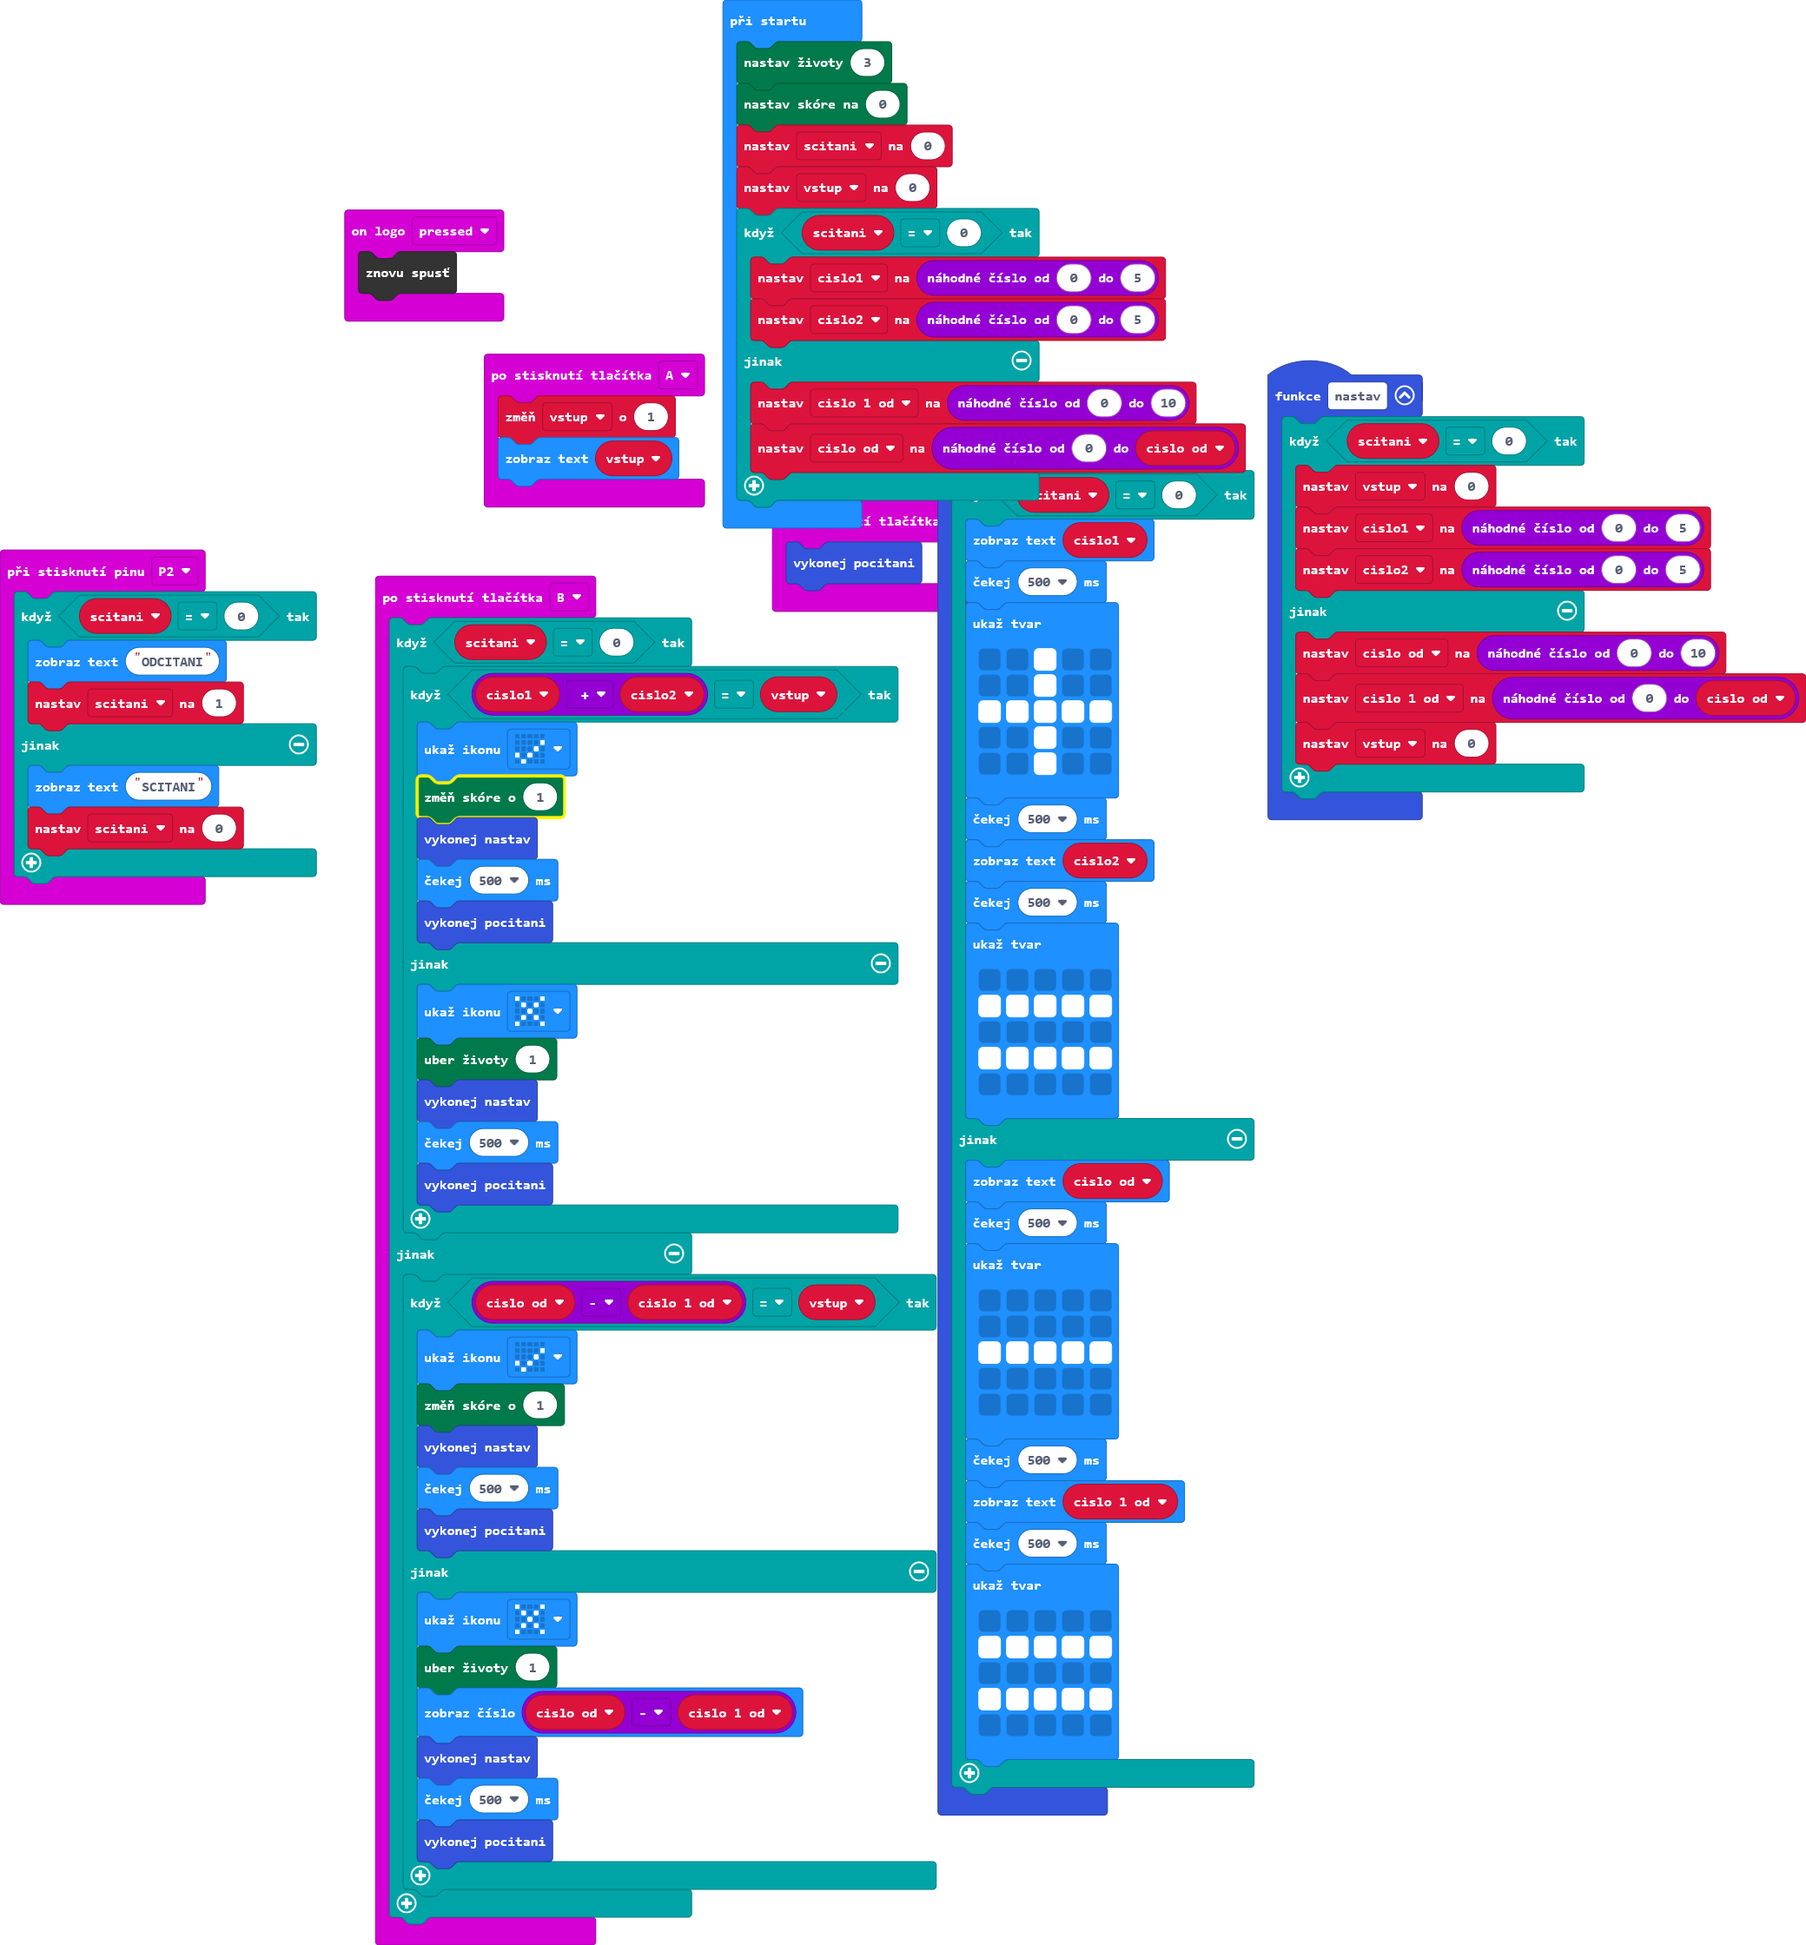
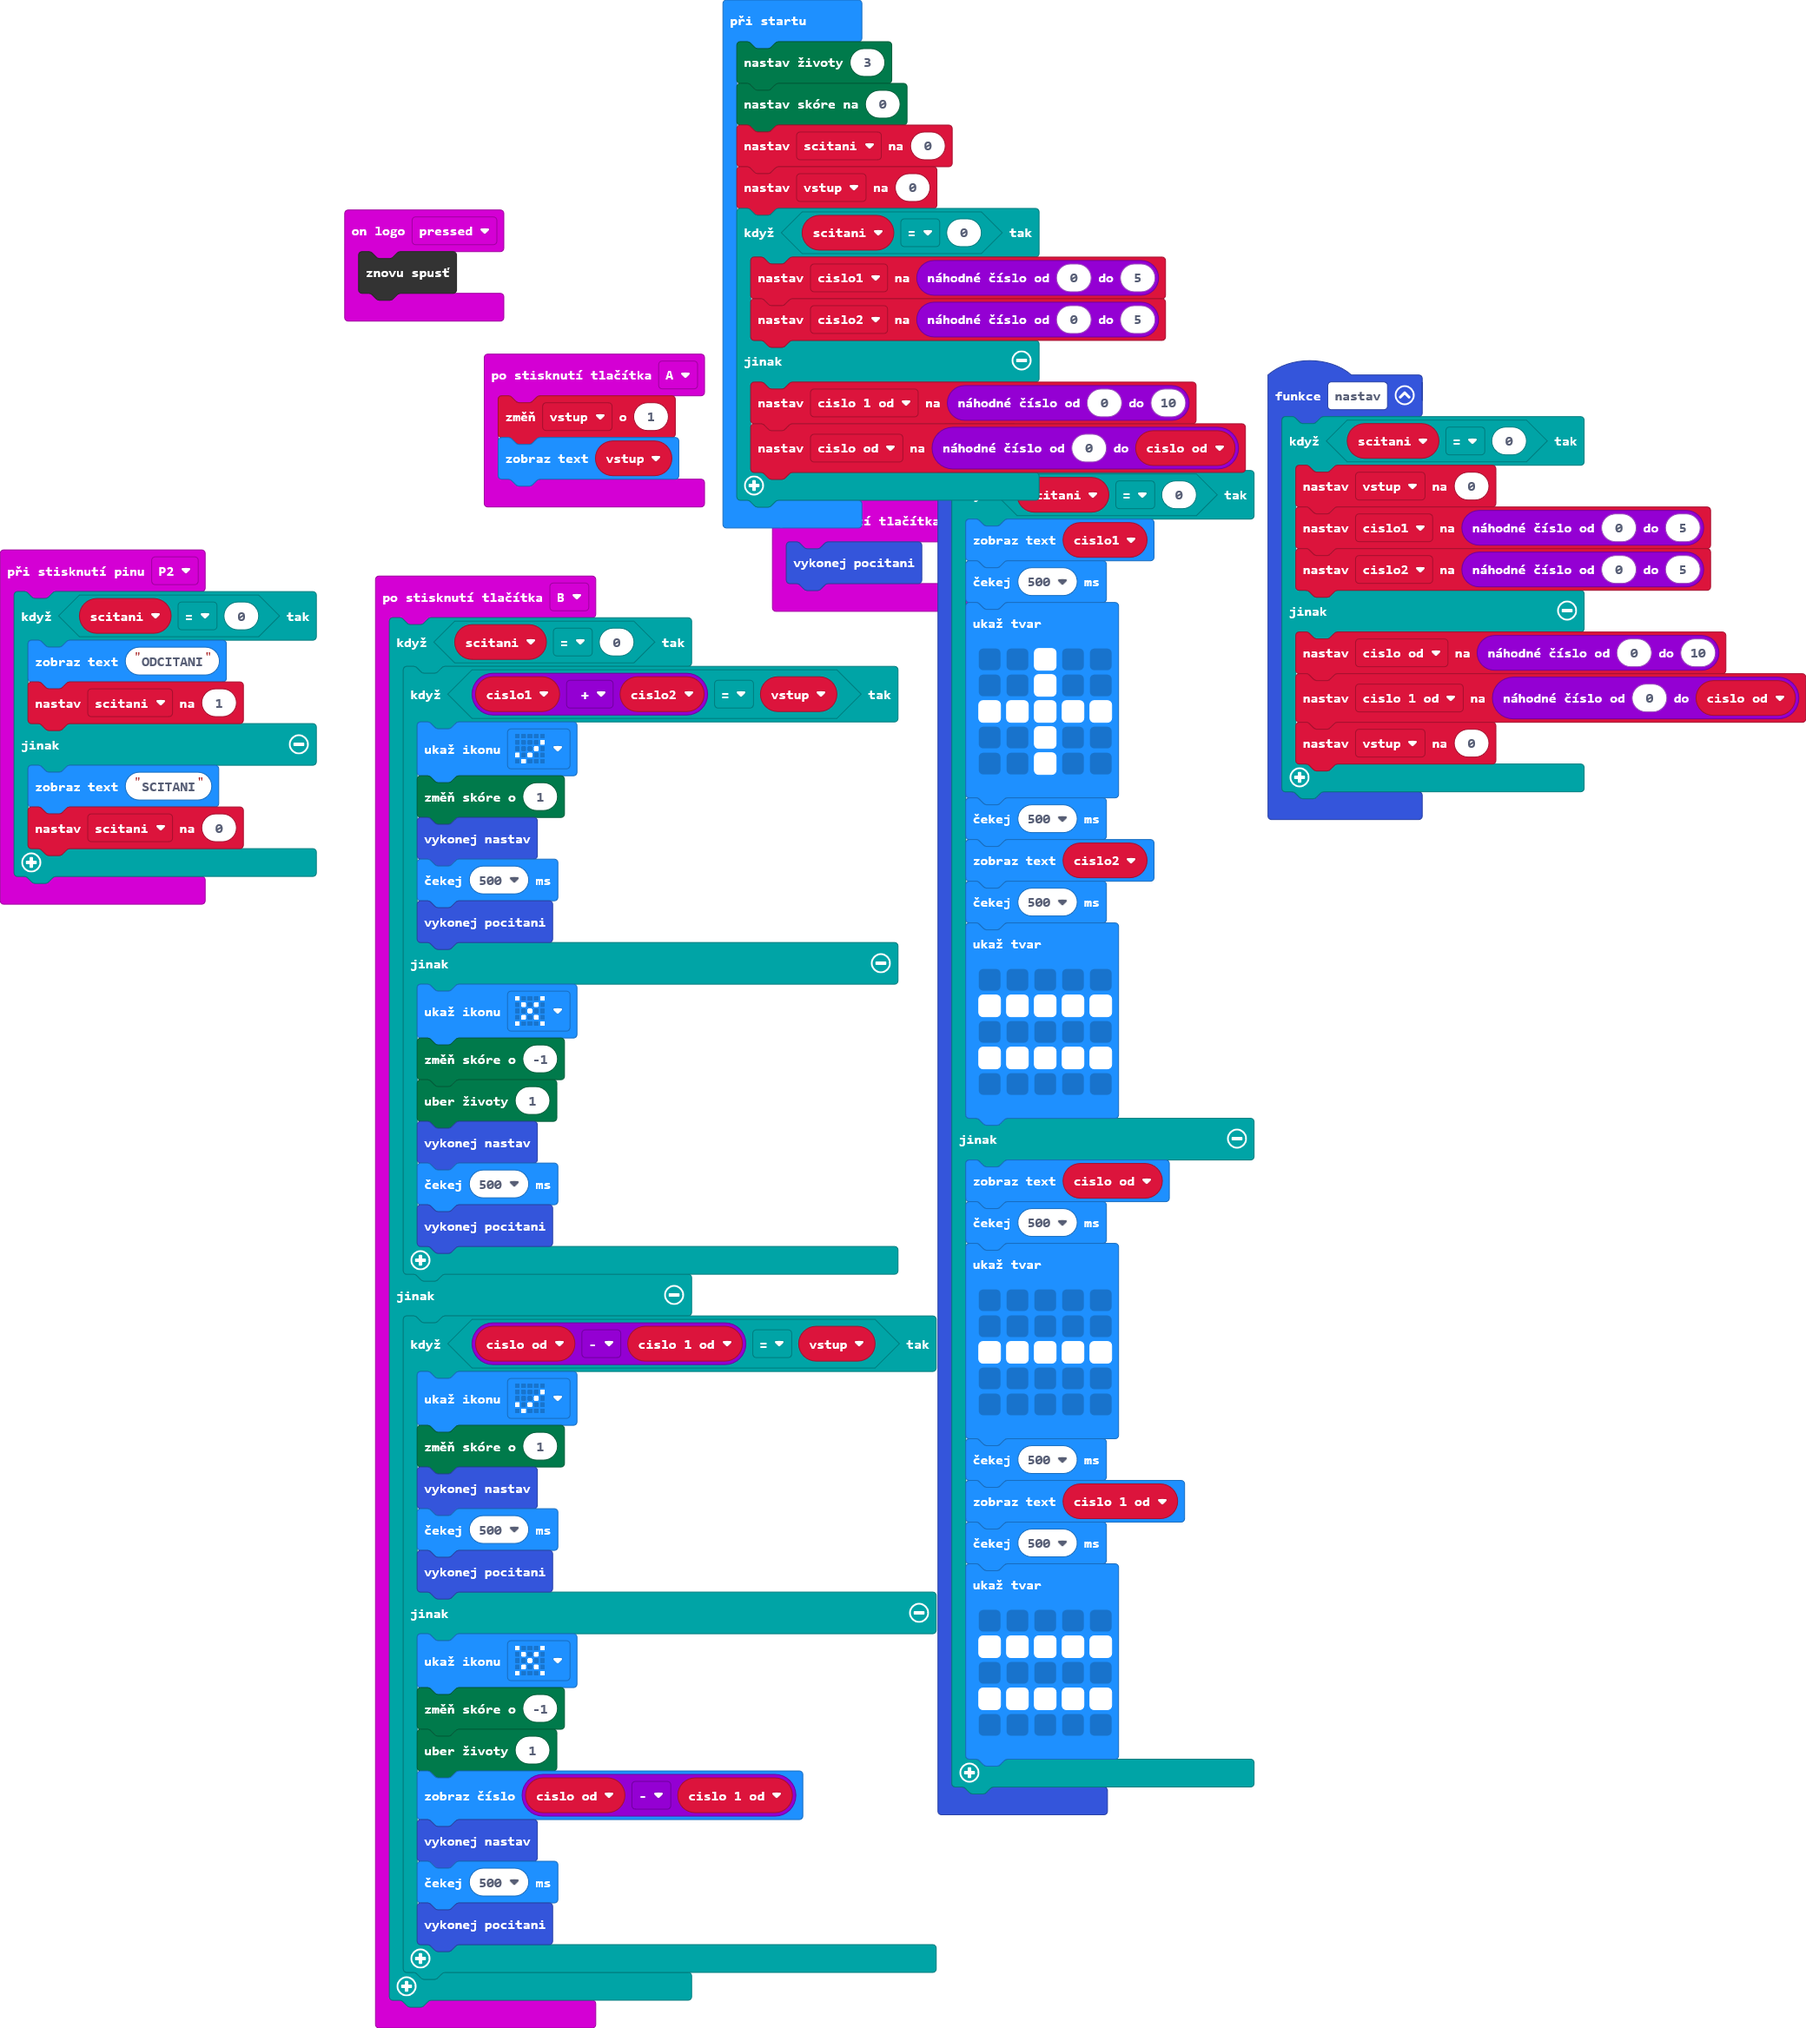
Aktualizovat main.blocks, main.ts

Changed region(s): [[0.0, 0.0, 1.0, 0.9862]]

diff --git a/main.ts b/main.ts
@@ -24,6 +24,7 @@ input.onButtonPressed(Button.B, function () {
             pocitani()
         } else {
             basic.showIcon(IconNames.No)
+            game.addScore(-1)
             game.removeLife(1)
             nastav()
             basic.pause(500)
@@ -38,6 +39,7 @@ input.onButtonPressed(Button.B, function () {
             pocitani()
         } else {
             basic.showIcon(IconNames.No)
+            game.addScore(-1)
             game.removeLife(1)
             basic.showNumber(cislo_od - cislo_1_od)
             nastav()
